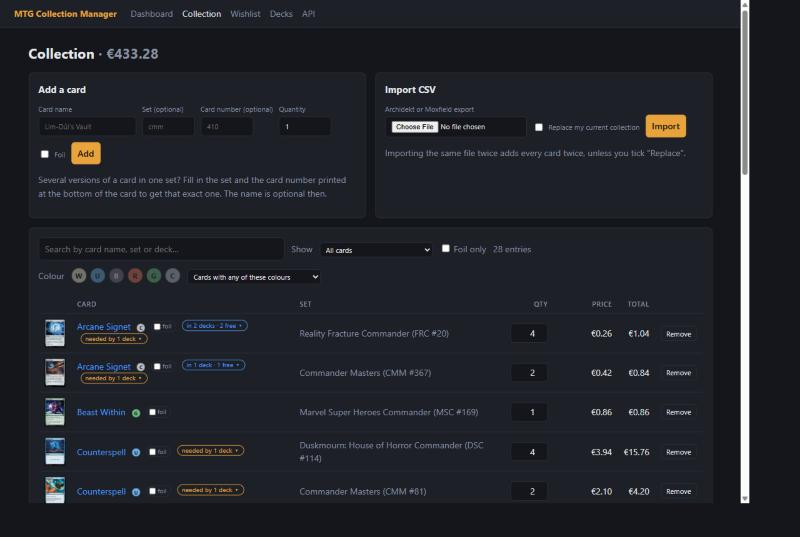
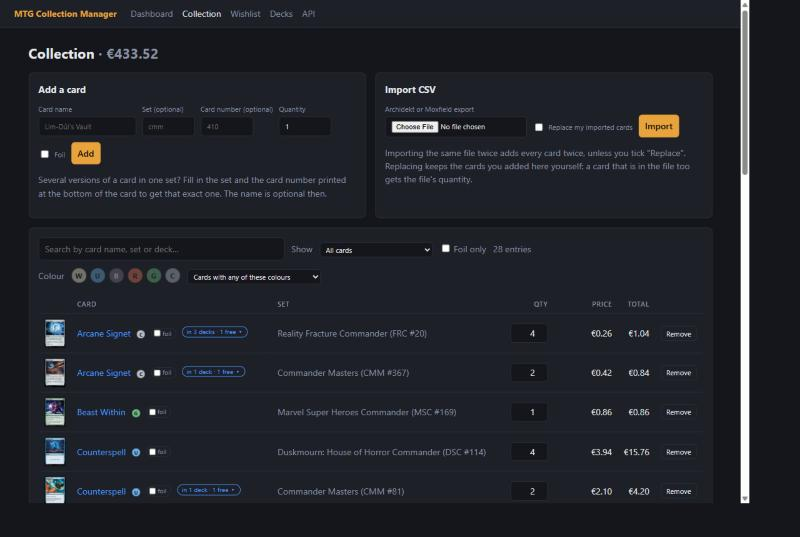
README: screenshots of the import that keeps hand-added cards

diff --git a/README.md b/README.md
@@ -25,6 +25,8 @@ price.
 
 ![Remove all asks for a second click before it empties the wishlist](docs/wishlist-remove-all.jpg)
 
+![Importing a CSV with "Replace my imported cards": the cards added by hand are kept](docs/collection-import.jpg)
+
 ![Searching the collection: five versions of Sol Ring, told apart by set and card number](docs/collection-search.jpg)
 
 ![Which decks a card is in: the label opened for two Sol Ring printings](docs/collection-decks.jpg)
